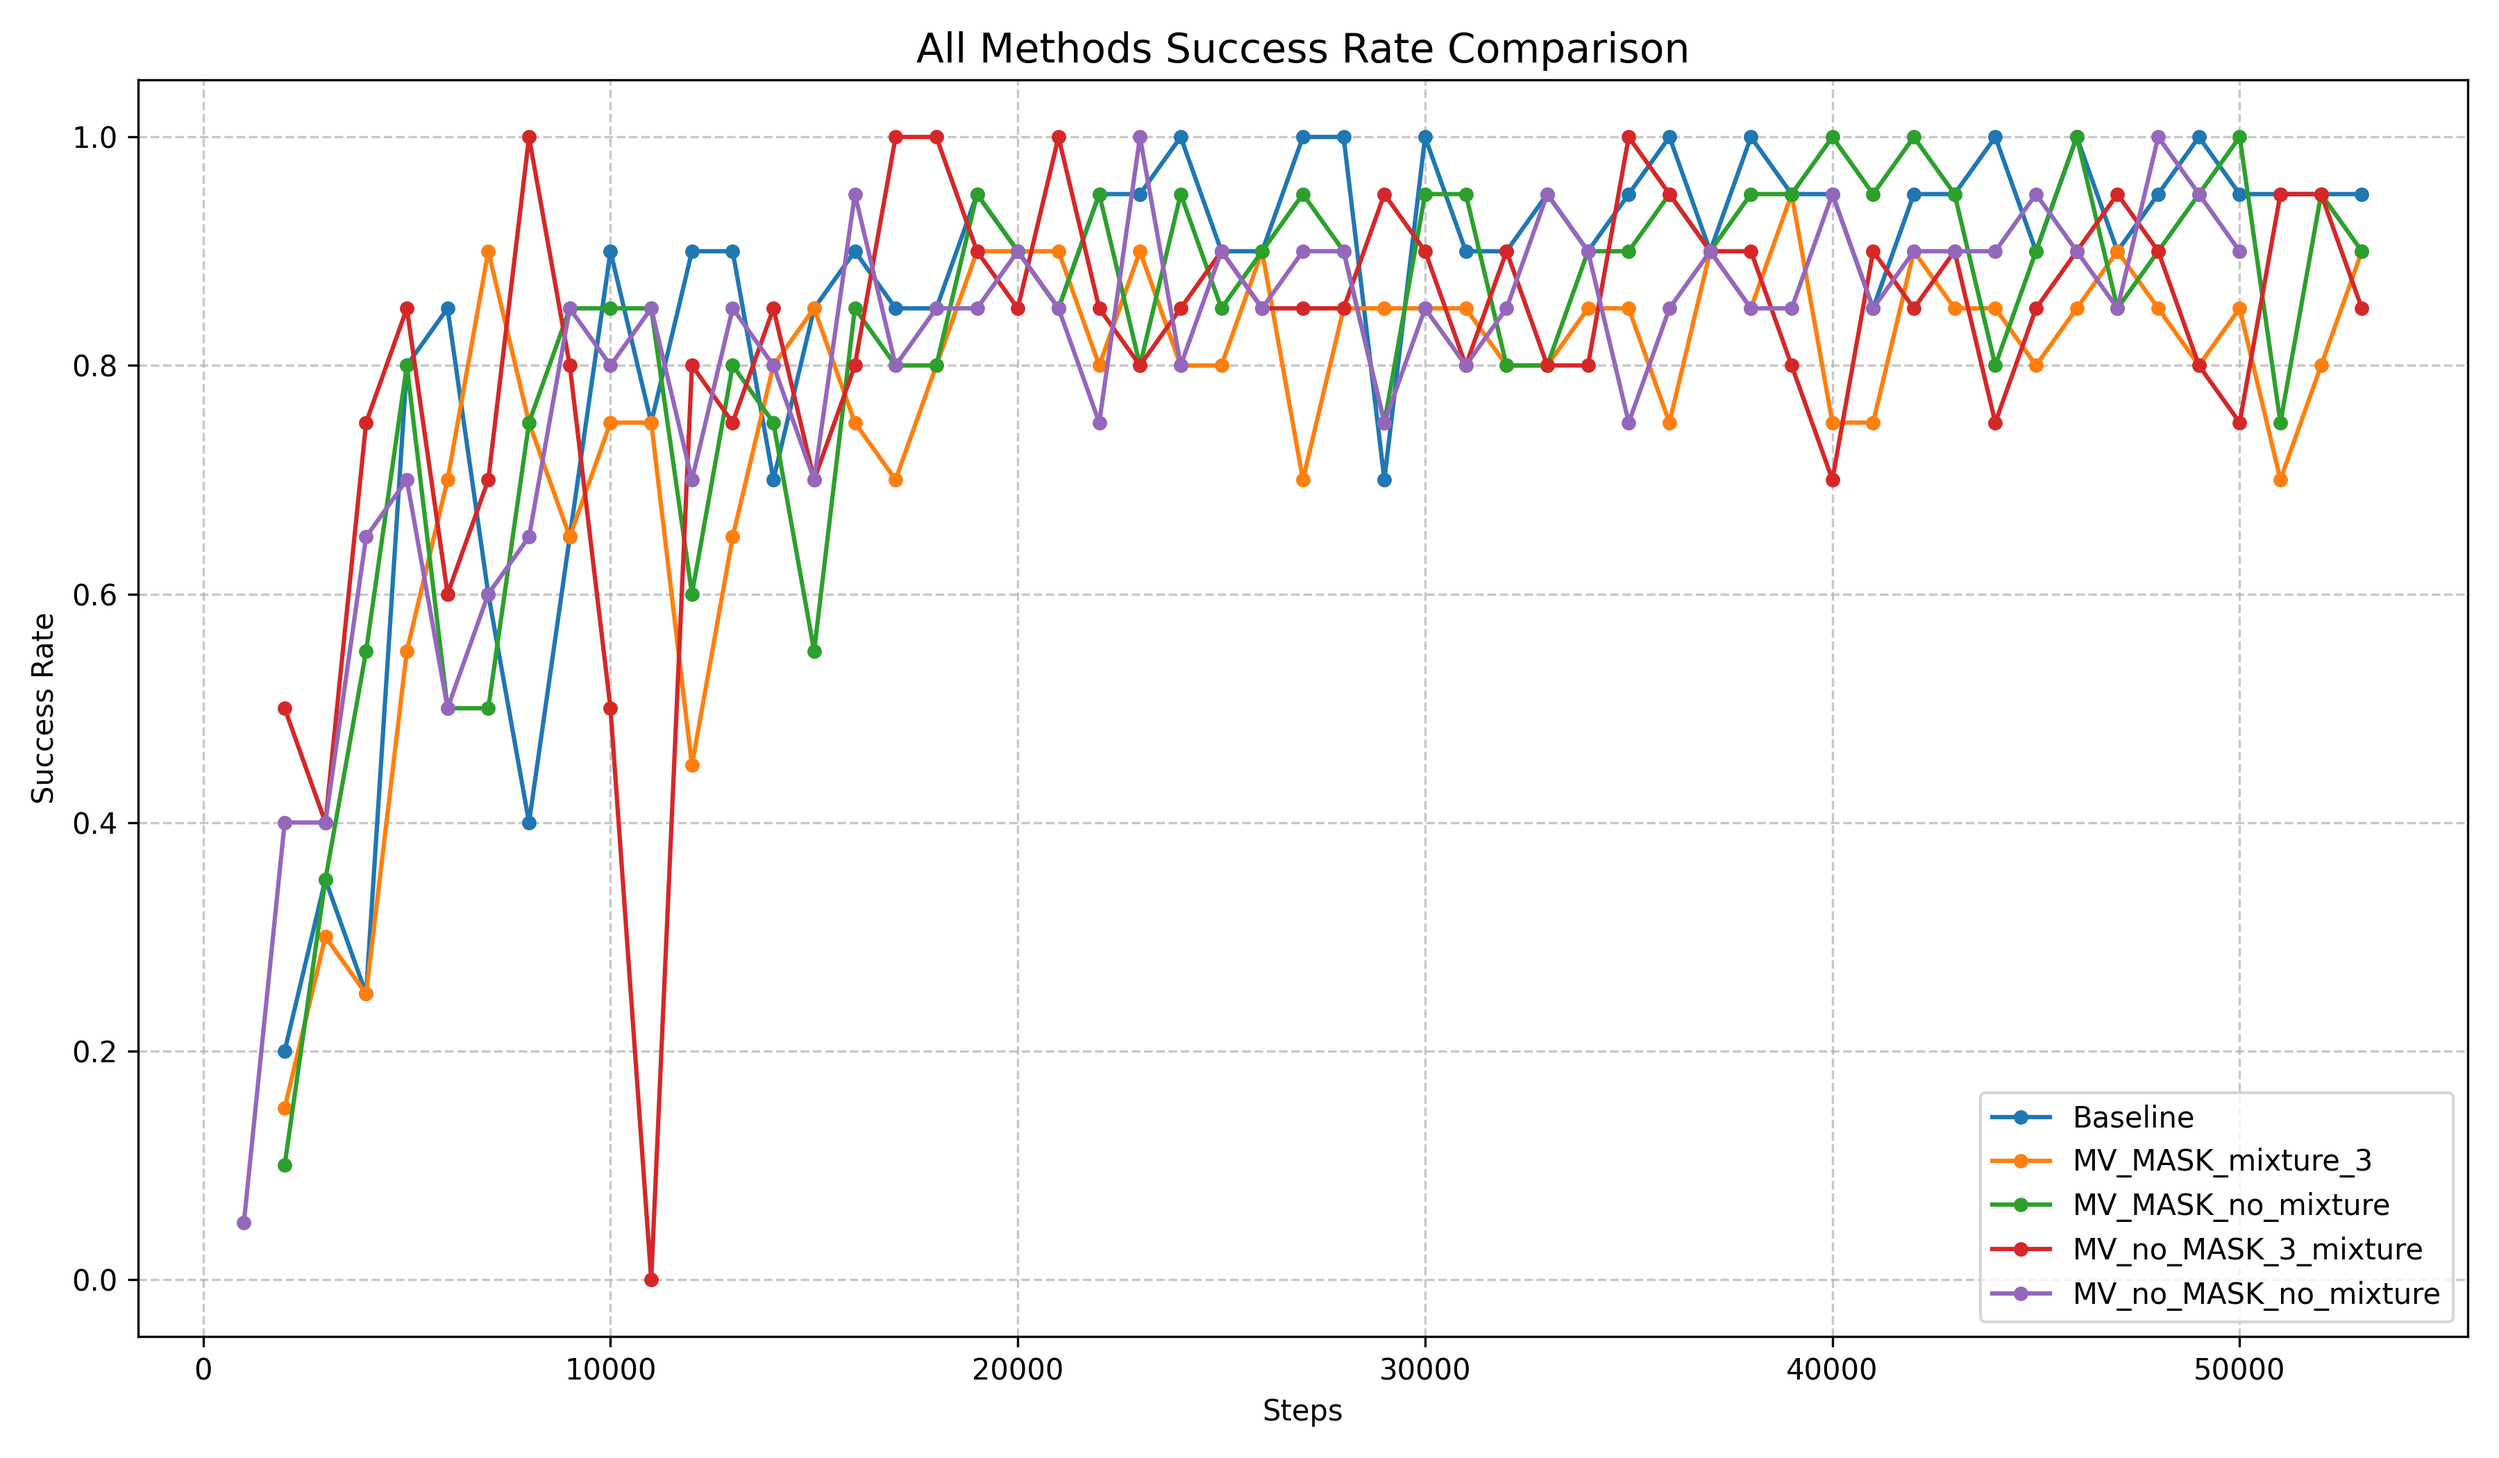
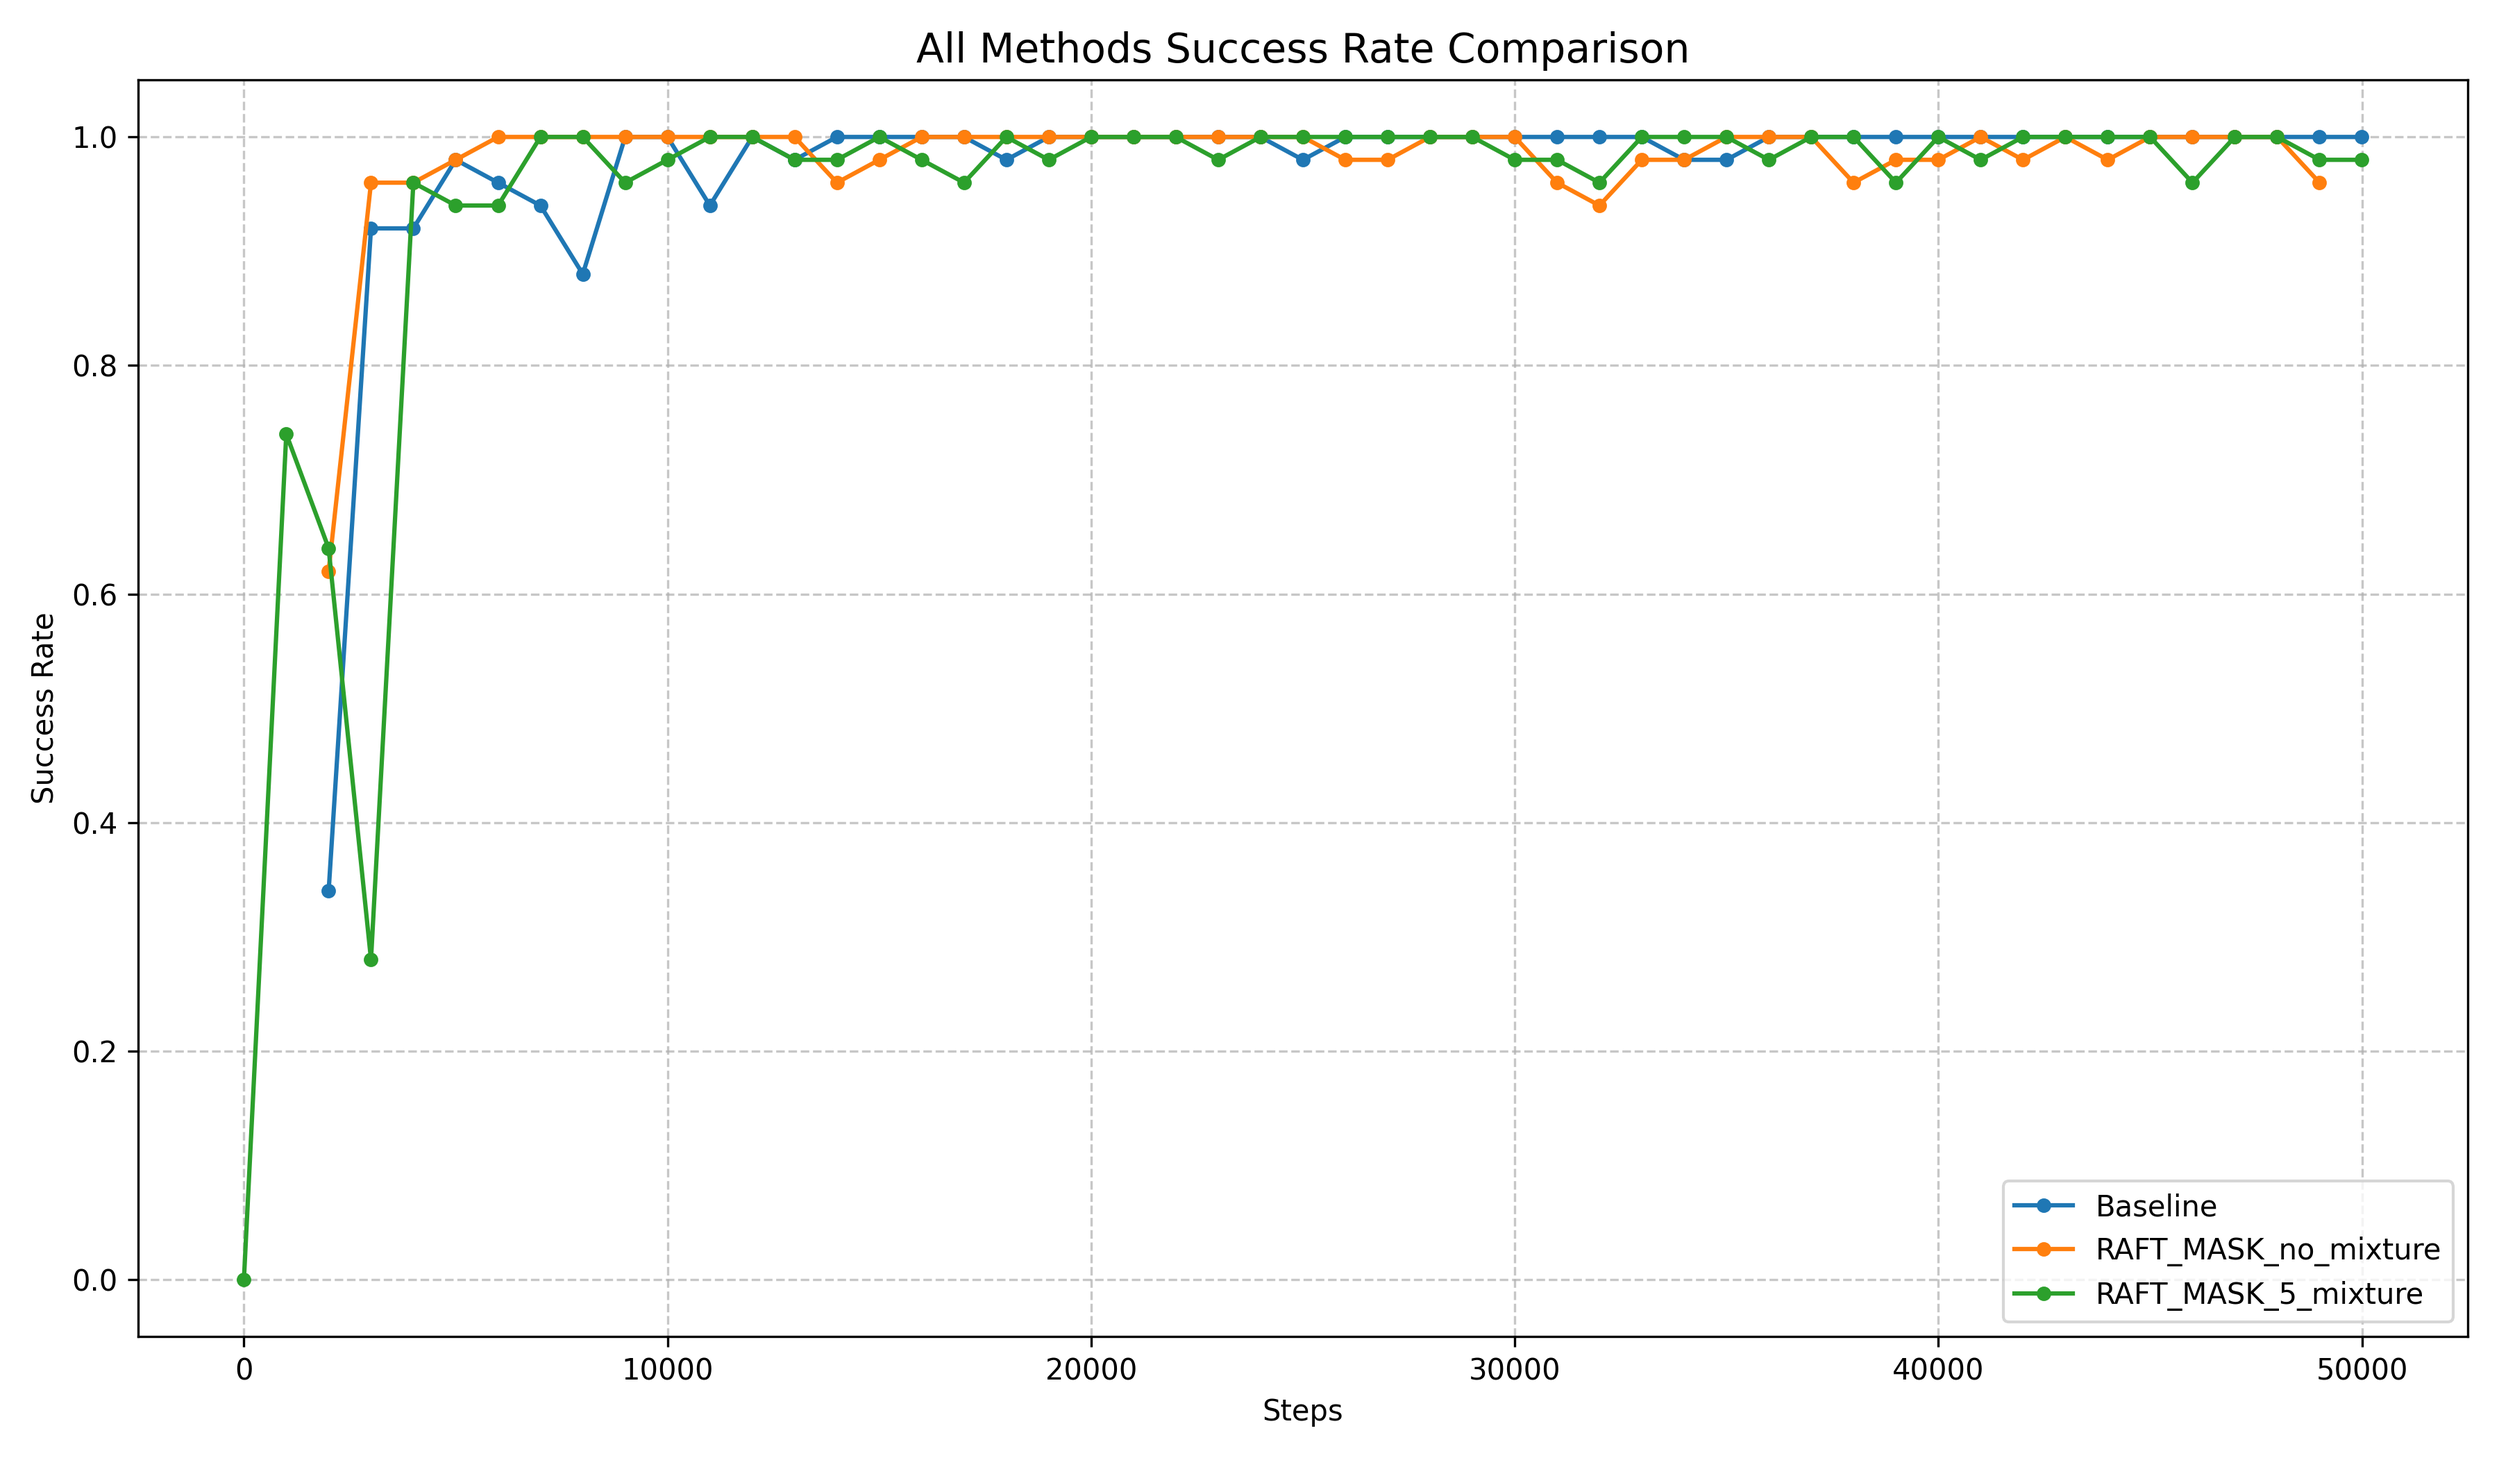
fix

diff --git a/tools/visual.py b/tools/visual.py
@@ -6,8 +6,13 @@ import numpy as np
 def parse_log(file_path):
     data = {'eval_step': [], 'success_rate': []}
     
-    # 匹配成功率 (兼容不同格式)
-    eval_pattern = re.compile(r"Step:\s+(\d+)\s+success[ -]rate:\s+([\d.]+)", re.IGNORECASE)
+    # 匹配成功率：兼容以下两种格式
+    # 1) Step: 2000 success rate: 0.08
+    # 2) Step: 2000 | Avg Success Rate: 0.1600
+    eval_pattern = re.compile(
+        r"Step:\s*(\d+)\s*(?:\|\s*)?(?:Avg\s*)?Success[ -]?Rate:\s*([0-9]*\.?[0-9]+)",
+        re.IGNORECASE,
+    )
     
     if not os.path.exists(file_path):
         print(f"警告: 文件 {file_path} 不存在")
@@ -78,11 +83,12 @@ def plot_success_rates(log_files):
 
 if __name__ == "__main__":
     logs_to_plot = {
-        "Baseline":"/data/workspace/zhangshiqi/uwm_motion/log/moka_moka_baseline.log",
-        "MV_MASK_mixture_3":"/data/workspace/zhangshiqi/uwm_motion/log/moka_moka_MV_MASK_mixture_3.log",
-        "MV_MASK_no_mixture":"/data/workspace/zhangshiqi/uwm_motion/log/moka_moka_MV_MASK_no_mixture.log",
-        "MV_no_MASK_3_mixture":"/data/workspace/zhangshiqi/uwm_motion/log/moka_moka_MV_no_MASK_3_mixture.log",
-        "MV_no_MASK_no_mixture":"/data/workspace/zhangshiqi/uwm_motion/log/moka_moka_MV_no_MASK_no_mixture.log"
+        "Baseline":"/data/shared_workspace/zhangshiqi/uwm_motion_rst_saving/libero_bowl_drawer/libero_bowl_drawer_baseline_V2.log",
+        "RAFT_MASK_no_mixture":"/data/shared_workspace/zhangshiqi/uwm_motion_rst_saving/libero_bowl_drawer/libero_bowl_drawer_RAFT_MASK_no_mixture_V2.log",
+        # "RAFT_no_MASK_no_mixture":"/data/shared_workspace/zhangshiqi/uwm_motion_rst_saving/libero_bowl_drawer/libero_bowl_drawer_RAFT_no_MASK_no_mixture_V2.log",
+        # "RAFT_no_MASK_5_mixture":"/data/shared_workspace/zhangshiqi/uwm_motion_rst_saving/libero_bowl_drawer/libero_bowl_drawer_RAFT_no_MASK_5_mixture_V2.log",
+        "RAFT_MASK_5_mixture":"/data/shared_workspace/zhangshiqi/uwm_motion_rst_saving/libero_bowl_drawer/libero_bowl_drawer_RAFT_MASK_5_mixture_V2.log"
+
     }
     
     plot_success_rates(logs_to_plot)

diff --git a/experiments/dp/train_robomimic.py b/experiments/dp/train_robomimic.py
@@ -85,7 +85,7 @@ def collect_rollout(config, model, device):
     return all_results, last_video
 
 def maybe_collect_rollout(config, step, model, device):
-    if step > 1000:
+    if step > -1:
         if is_main_process() and (
             step % config.rollout_every == 0 or step == (config.num_steps - 1)
         ):
